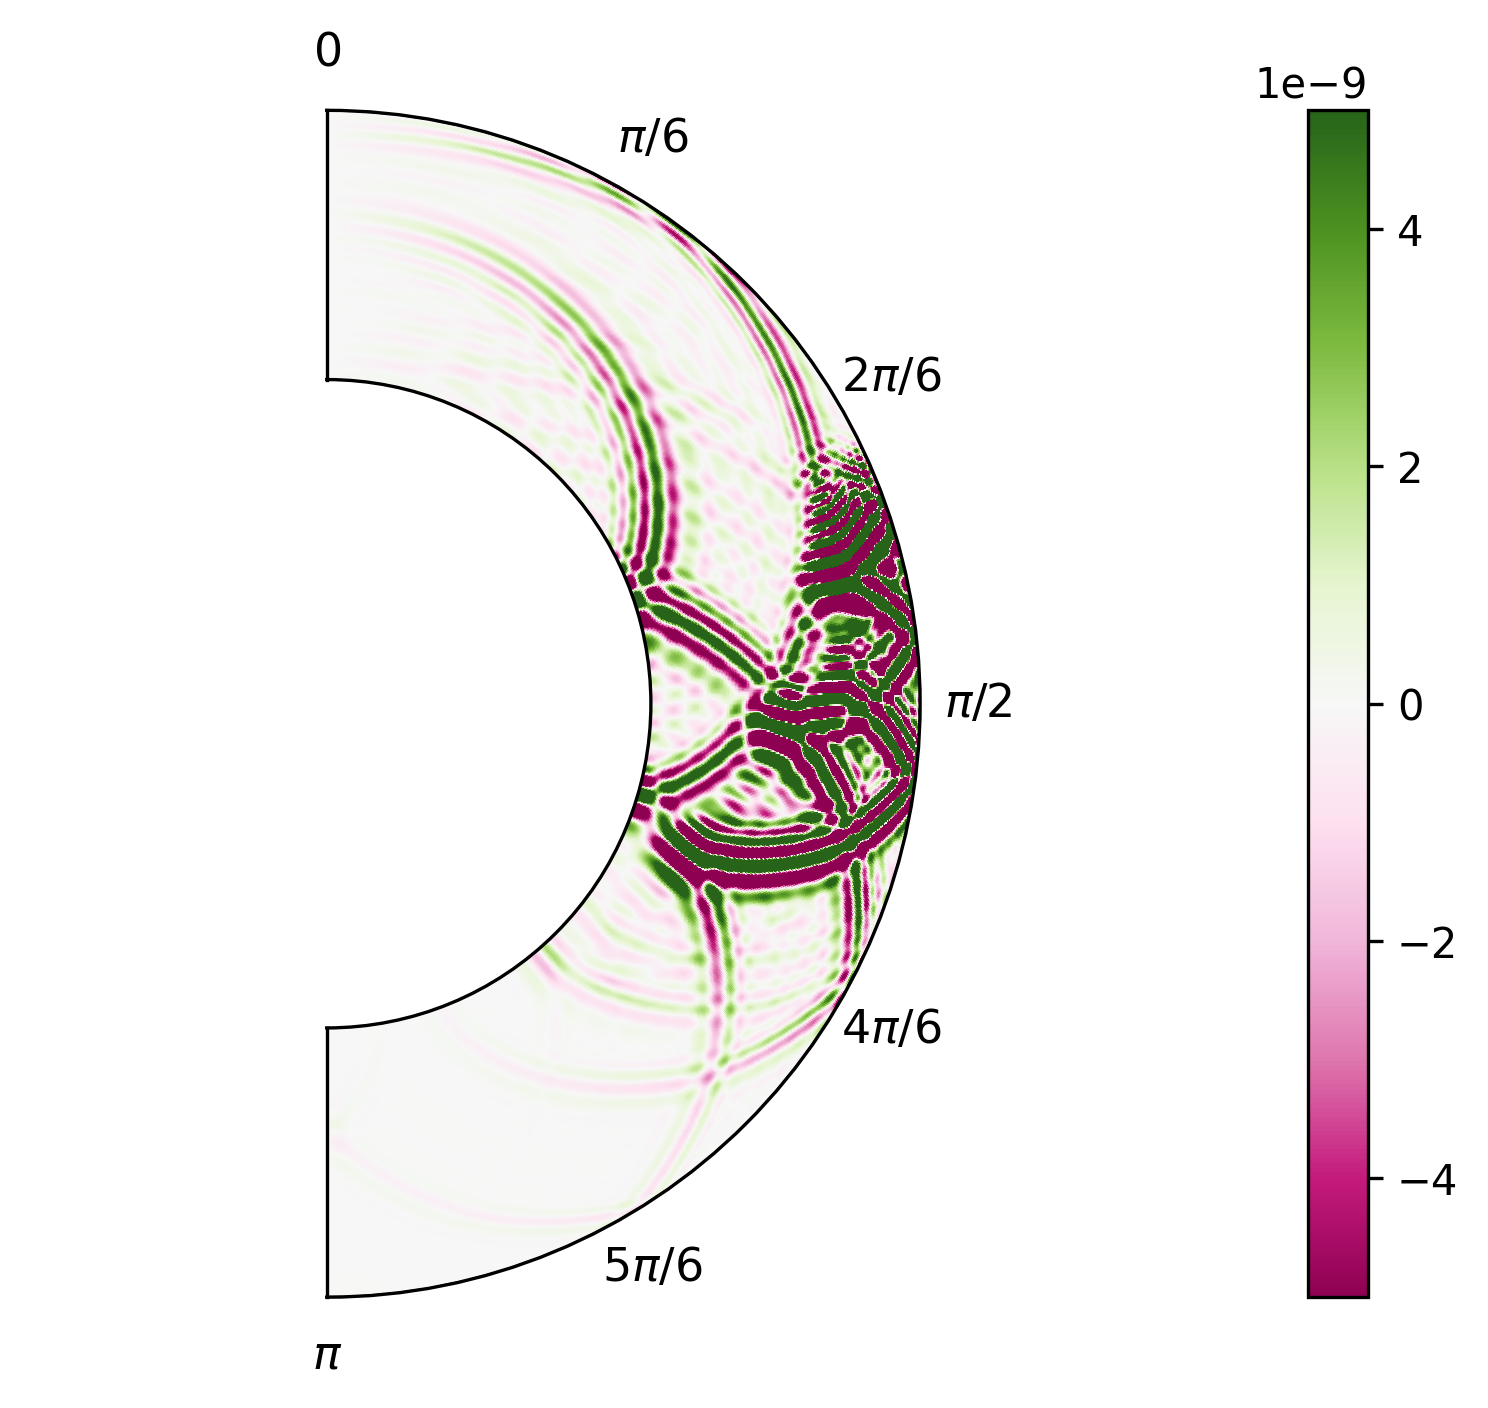
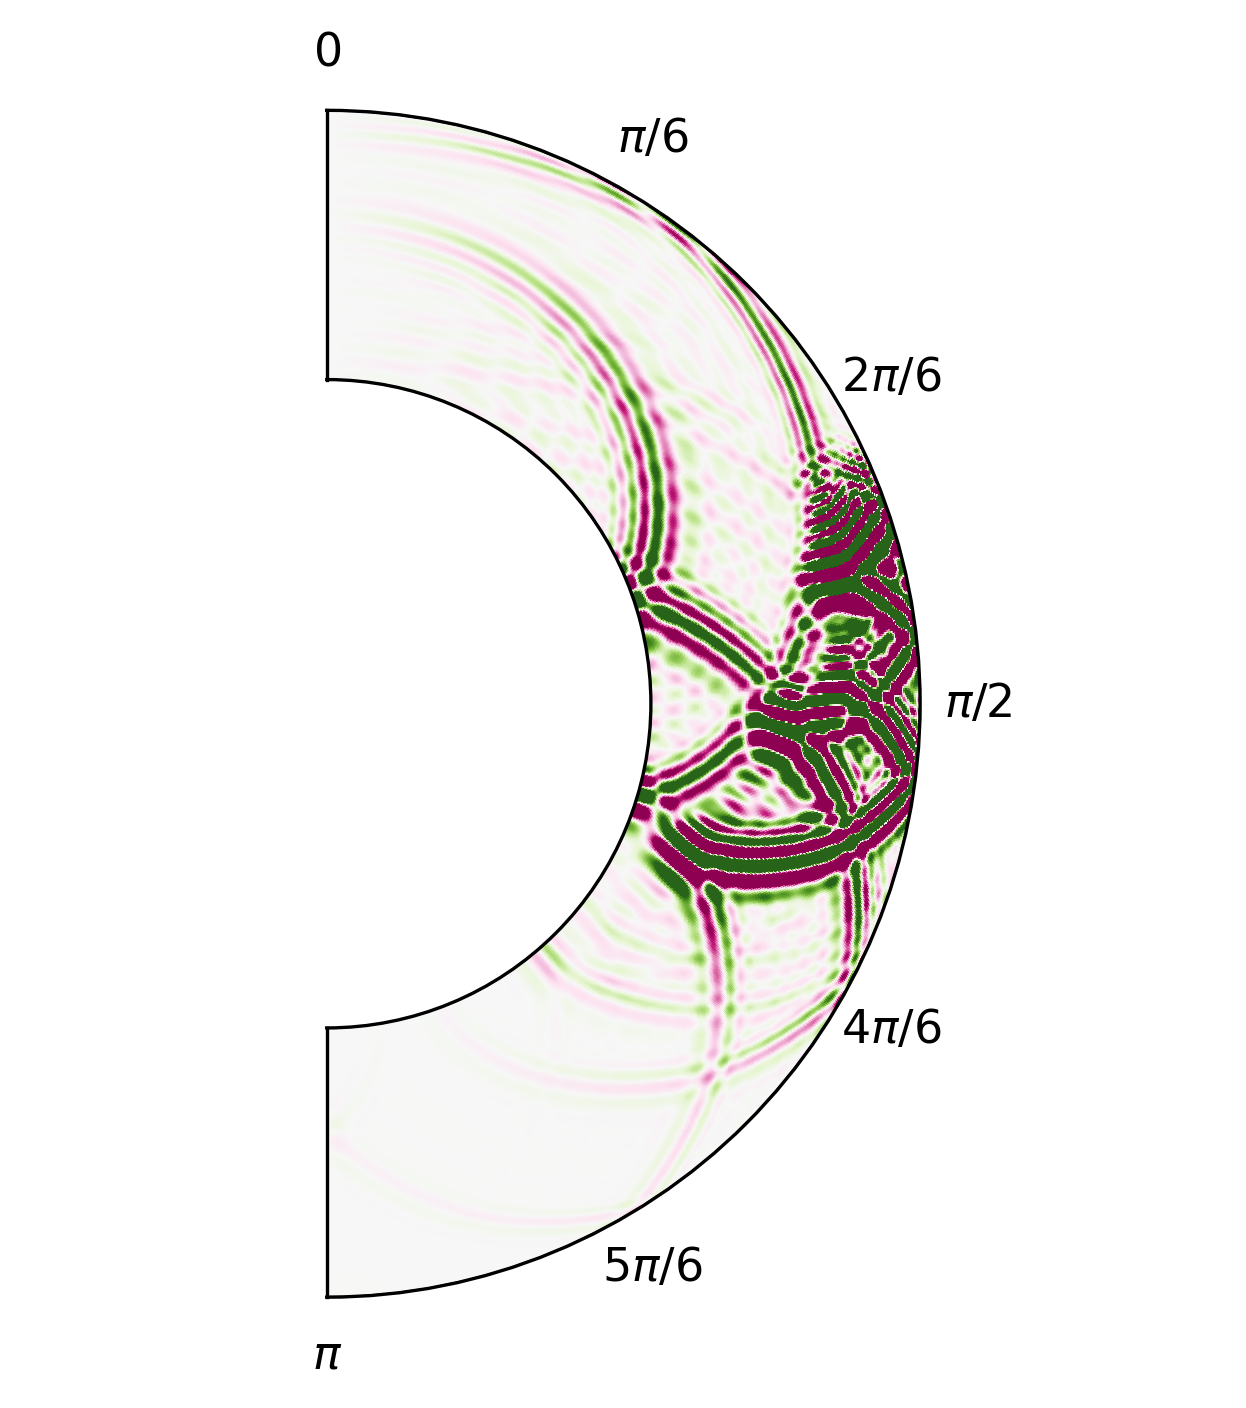
edits and build scripts

Changed region(s): [[0.2135, 0.0312, 0.8234, 0.9062], [0.8539, 0.0312, 0.9759, 0.9375], [0.2135, 0.7188, 0.3355, 0.9688]]

diff --git a/tutorialRunFiles/plotWavefield.py b/tutorialRunFiles/plotWavefield.py
@@ -52,7 +52,7 @@ def doPlot(th, r, z, figID, bd):
   ax1.set_rorigin(-1)
   plotEarthSurf(ax1)
   plotCMB(ax1)
-  fig1.colorbar(h1)
+  #fig1.colorbar(h1)
   plt.tight_layout()
   fig1.savefig('./wavefield.png', format="png",bbox_inches='tight', dpi=300)
   plt.show()
